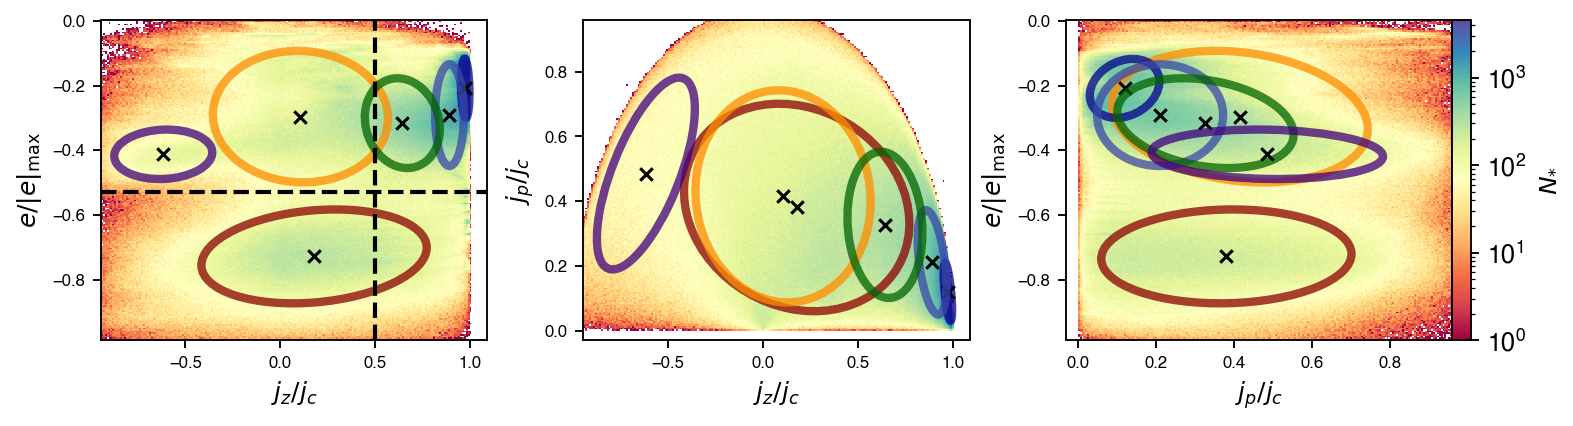
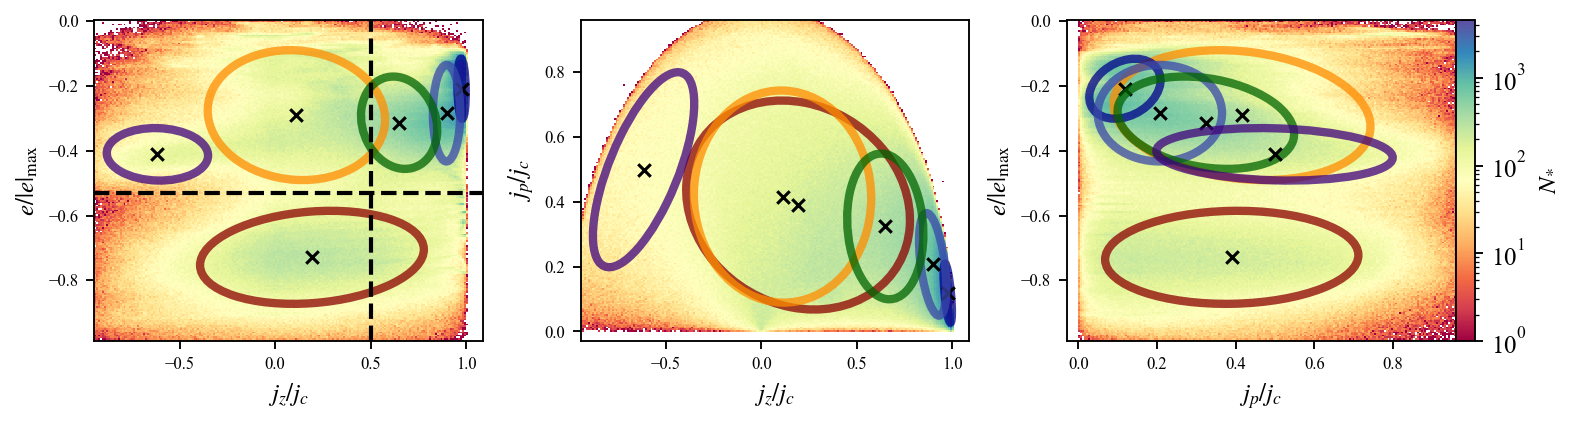
test(scaling): BF right axis, 10-repeat bands, Times font; README fixes
- test_scaling_with_n_samples: repeat each mini-batch fit 10x per N and
  report median + 16-84% spread bands for both the per-iteration time
  and the Bayes factor BF = exp(LB_full - LB_mini) (N cancels) on the
  right axis; ylim spans the Jeffreys anecdotal region [1/3, 3] with a
  BF = 1 reference line (BF ~ 1 = no evidence of a difference)
- figure: figsize (6,5), thicker lines (lw 3/2), single combined legend
  placed above the plot area so it never overlaps the curves
- NATURE_STYLE: Helvetica sans-serif -> Times New Roman serif (stix
  mathtext); all README figures regenerated
- README (EN + ZH): correct the energy variable to e/|e_min| with the
  [-1, 0) range description, rename cut_E -> e_cut, fix the circularity
  threshold to a fixed 0.5, and describe the Bayes-factor criterion in
  the performance section

diff --git a/tests/example_gaussian_mixture.py b/tests/example_gaussian_mixture.py
@@ -413,8 +413,12 @@ def test_scaling_with_n_samples():
     fits per N, with 16%-84% (1-sigma) spread bands for stability, plus
     the old pre-optimisation mini path (full-dataset init + full
     permutation, O(N) per fit) as a reference. The right y-axis shows the
-    relative lower-bound error of mini vs full batch (|dLB|/|LB_full|);
-    the full/mini curves share the same synthetic data per N.
+    Bayes factor BF = exp(LB_full - LB_mini) of the full- vs mini-batch
+    converged solutions on a log scale (N cancels), with the y-range
+    spanning the Jeffreys "anecdotal" region [1/3, 3]. Measured BF ≈ 1
+    (0.96–1.01 in this run), i.e. no evidence of a difference - the two
+    convergence paths are statistically indistinguishable, not merely
+    close. The full/mini curves share the same synthetic data per N.
     batch_size=1024 so every point really uses the mini-batch path
     (3*batch_size = 3072 < 1e4). The figure is saved to
     image/scaling_performance.png (used in the README).
@@ -484,11 +488,14 @@ def test_scaling_with_n_samples():
     lb_full = np.array(lb_full)
     lb_mini_all = np.array(lb_mini_all)  # (n_points, n_repeats)
 
-    # relative lower-bound error per repeat, then median + 16-84% spread
-    lb_err_all = 100.0 * np.abs(lb_full[:, None] - lb_mini_all) / np.abs(lb_full[:, None])
-    lb_err_med = np.median(lb_err_all, axis=1)
-    lb_err_lo = np.percentile(lb_err_all, 16, axis=1)
-    lb_err_hi = np.percentile(lb_err_all, 84, axis=1)
+    # Bayes factor per repeat: BF = exp(LB_full - LB_mini) (the N cancels),
+    # then median + 16-84% spread. On the Jeffreys scale BF in [0.1, 10] is
+    # "no substantial evidence"; the measured BF ≈ 1 means the full- and
+    # mini-batch converged solutions are statistically indistinguishable.
+    bf_all = np.exp(lb_full[:, None] - lb_mini_all)
+    bf_med = np.median(bf_all, axis=1)
+    bf_lo = np.percentile(bf_all, 16, axis=1)
+    bf_hi = np.percentile(bf_all, 84, axis=1)
 
     # per-iteration cost should scale up with N for full batch
     assert per_iter_full[-1] > per_iter_full[0], "full per-iter should grow with N"
@@ -500,7 +507,7 @@ def test_scaling_with_n_samples():
 
     # ---- figure: unified Nature-journal style (shared with visualize.py) ----
     # Font sizes are bumped up relative to NATURE_STYLE so they match the
-    # large 9x6 canvas (labels stand out instead of being dwarfed).
+    # canvas (labels stand out instead of being dwarfed).
     with plt.rc_context({
         **NATURE_STYLE,
         'font.size': 16,
@@ -509,31 +516,34 @@ def test_scaling_with_n_samples():
         'ytick.labelsize': 15,
         'legend.fontsize': 14,
     }):
-        fig, ax1 = plt.subplots(figsize=(9, 6))
-        ax1.loglog(n_list, per_iter_full, 'b-o', linewidth=2, label='Full batch')
-        ax1.loglog(n_list, per_iter_mini_med, 'r-o', linewidth=2, label='Mini batch')
-        ax1.fill_between(n_list, per_iter_mini_lo, per_iter_mini_hi,
-                         color='r', alpha=0.2, label='Mini batch (16–84%)')
-        ax1.loglog(n_list, per_iter_mini_old, color='r', linestyle='--', marker='s', linewidth=1.5, alpha=0.7,
+        fig, ax1 = plt.subplots(figsize=(6, 5))
+        ax1.loglog(n_list, per_iter_full, 'b-o', linewidth=3, markersize=8, label='Full batch')
+        ax1.loglog(n_list, per_iter_mini_med, 'r-o', linewidth=3, markersize=8, label='Mini batch')
+        ax1.fill_between(n_list, per_iter_mini_lo, per_iter_mini_hi, color='r', alpha=0.2)
+        ax1.loglog(n_list, per_iter_mini_old, color='r', linestyle='--', marker='s', linewidth=2, markersize=7, alpha=0.7,
                    label='Mini batch (old)')
         ax1.set_xlabel('N')
         ax1.set_ylabel('Time per iteration (s)')
-        ax1.legend(loc='upper left', framealpha=0.9)
 
-        # right axis: relative lower-bound error of mini batch vs full batch
-        # (mini batch sees fewer data per iteration, so its converged LB may
-        # deviate from the full-batch one; |dLB|/|LB_full| quantifies it).
-        # Shown in percent with a fixed [0, 1%] ylim so the (tiny) errors
-        # are read at their true magnitude instead of looking inflated.
+        # right axis: Bayes factor BF = exp(LB_full - LB_mini) of the full-
+        # vs mini-batch converged solutions (log scale; N cancels). ylim
+        # spans the Jeffreys "anecdotal" region [1/3, 3]: no evidence at
+        # BF = 1 (solid line), anecdotal at the 3 and 1/3 boundaries.
         ax2 = ax1.twinx()
-        ax2.semilogx(n_list, lb_err_med, 'g-^', linewidth=1.5, alpha=0.8, label='LB error (%)')
-        ax2.fill_between(n_list, lb_err_lo, lb_err_hi, color='g', alpha=0.15,
-                         label='LB error (16–84%)')
-        ax2.set_ylabel('Relative LB error (%)', color='g')
-        ax2.set_ylim(0, 1.0)
+        ax2.semilogx(n_list, bf_med, 'g-^', linewidth=2, markersize=8, alpha=0.8, label='BF (median)')
+        ax2.fill_between(n_list, bf_lo, bf_hi, color='g', alpha=0.15)
+        ax2.set_ylabel('Bayes factor BF', color='g')
+        ax2.axhline(1.0, color='k', lw=1.0, ls='-', alpha=0.6)
+        ax2.set_ylim(1/3, 3)
         ax2.tick_params(axis='y', labelcolor='g')
-        ax2.legend(loc='upper right', framealpha=0.9)
         ax2.grid(False)
+
+        # single combined legend above the axes (outside the plot area so it
+        # can never overlap the curves)
+        h1, l1 = ax1.get_legend_handles_labels()
+        h2, l2 = ax2.get_legend_handles_labels()
+        ax1.legend(h1 + h2, l1 + l2, loc='lower center', bbox_to_anchor=(0.5, 1.02),
+                   ncol=4, fontsize=12, framealpha=0.9)
 
         fig.tight_layout()
         fig.savefig("image/scaling_performance.png", dpi=150, bbox_inches='tight')

diff --git a/src/kinematic_decompose/visualize.py b/src/kinematic_decompose/visualize.py
@@ -10,16 +10,16 @@ from scipy.stats import binned_statistic_2d
 
 available_fonts = [f.name for f in fm.fontManager.ttflist]
 
-# Unified Nature-journal figure style (Nature/Science tier): sans-serif
-# Helvetica/Arial, restrained sizes, hairline axes, no grid. Applied
+# Unified Nature-journal figure style (Nature/Science tier): serif
+# Times New Roman, restrained sizes, hairline axes, no grid. Applied
 # project-wide so every figure (decomposition panels and test figures)
 # shares one look.
 NATURE_STYLE = {
-    'font.family': 'sans-serif',
-    'font.sans-serif': ['Helvetica', 'Arial', 'DejaVu Sans'],
+    'font.family': 'serif',
+    'font.serif': ['Times New Roman', 'Times', 'DejaVu Serif'],
     'font.style': 'normal',
     'font.weight': 'normal',
-    'mathtext.fontset': 'dejavusans',
+    'mathtext.fontset': 'stix',
     'font.size': 12,
     'axes.labelsize': 13,
     'xtick.labelsize': 11,

diff --git a/README.md b/README.md
@@ -10,8 +10,8 @@ This package provides an end-to-end pipeline for decomposing simulated galaxies 
 
 Traditional kinematic decomposition methods (e.g., Abadi + JEHistogram) rely on ad-hoc energy and angular momentum cuts. This package replaces hard cuts with an **adaptive, data-driven Gaussian Mixture Model** that:
 
-1. **Automatically classifies morphology** — uses a 3-component GMM to distinguish disks from spheroids based on the $\epsilon$–$j_z/j_c$ phase space.
-2. **Initializes physically motivated components** — separates bulge, stellar halo, cold disk, warm disk, and counter-rotating disk using energy ($\epsilon/|\epsilon|_{\max}$) and circularity ($j_z/j_c$) thresholds.
+1. **Automatically classifies morphology** — uses a 3-component GMM to distinguish disks from spheroids based on the $e/|e_{\min}|$–$j_z/j_c$ phase space.
+2. **Initializes physically motivated components** — separates bulge, stellar halo, cold disk, warm disk, and counter-rotating disk using energy ($e/|e_{\min}|$) and circularity ($j_z/j_c$) thresholds.
 3. **Detects residual underfitting** — uses a 2D histogram-based $\Delta L$ criterion to identify phase-space regions where the current mixture under-represents the data and adds new components automatically.
 4. **Supports soft and hard classification** — assigns each star particle a probabilistic or hard label for the five kinematic categories.
 
@@ -21,7 +21,7 @@ The decomposition operates in three dimensions of the stellar orbital phase spac
 
 | Variable | Definition | Description |
 |----------|-----------|-------------|
-| $\epsilon/|\epsilon|_{\max}$ | $E/|E_{\min}|$ | Bounded orbital energy (normalised); $< 0$ for bound particles |
+| $e/|e_{\min}|$ | $E / |E_{\min}|$ | Orbital energy normalised by the magnitude of the minimum (most bound) energy; bound particles lie in $[-1, 0)$ |
 | $j_z/j_c$ | $L_z / L_c(E)$ | Circularity: z-component of angular momentum over circular angular momentum at same energy |
 | $j_p/j_c$ | $L_p / L_c(E)$ | Perpendicular angular momentum fraction |
 
@@ -34,12 +34,12 @@ The decomposition operates in three dimensions of the stellar orbital phase spac
 | Component | Phase-space signature |
 |-----------|----------------------|
 | **Cold disk** | $j_z/j_c > 0.85$ |
-| **Warm disk** | $j_z/j_c > \text{cut}_{\mathrm{circ}}$ |
-| **Bulge** | $\epsilon/|\epsilon|_{\max} < \text{cut}_{\mathrm{E}}$ and $|j_z/j_c| < \text{cut}_{\mathrm{circ}}$ |
-| **Stellar halo** | $\epsilon/|\epsilon|_{\max} > \text{cut}_{\mathrm{E}}$ and $|j_z/j_c| < \text{cut}_{\mathrm{circ}}$ |
-| **Counter-rotating disk** | $j_z/j_c < -\text{cut}_{\mathrm{circ}}$ |
+| **Warm disk** | $j_z/j_c > 0.5$ |
+| **Bulge** | $e/|e_{\min}| < e_{\mathrm{cut}}$ and $|j_z/j_c| < 0.5$ |
+| **Stellar halo** | $e/|e_{\min}| > e_{\mathrm{cut}}$ and $|j_z/j_c| < 0.5$ |
+| **Counter-rotating disk** | $j_z/j_c < -0.5$ |
 
-`cut_E` and `cut_circ` are determined adaptively from the gravitational potential and the stellar energy distribution.
+$e_{\mathrm{cut}}$ is determined adaptively from the gravitational potential and the stellar energy distribution; the circularity threshold is a fixed 0.5.
 
 ## Project Structure
 
@@ -179,12 +179,12 @@ The custom `GaussianMixture` in `mixture/_gaussian_mixture.py` extends scikit-le
 
 ### AutoGMM Fitting Stages
 
-1. **Morphology classification** — `_morphology_class()`: fits a 3-component GMM on ($\epsilon/|\epsilon|_{\max}$, $j_z/j_c$). If any component has $\mu_{j_z/j_c} > \text{cut}$, the galaxy is classified as `'disk'`; otherwise `'spheroid'`.
+1. **Morphology classification** — `_morphology_class()`: fits a 3-component GMM on ($e/|e_{\min}|$, $j_z/j_c$). If any component has $\mu_{j_z/j_c} > \text{cut}$, the galaxy is classified as `'disk'`; otherwise `'spheroid'`.
 
 2. **Physical initialisation** — `_initialize()`: maps GMM components to bulge, halo, disk subgroups using energy and circularity cuts. Falls back to data-driven statistics when a morphological subgroup is missing.
 
 3. **Residual component detection** — `_find_residual_component()`: the key innovation. It:
-   - Constructs a 2D histogram of the true data in ($\epsilon/|\epsilon|_{\max}$, $j_z/j_c$)
+   - Constructs a 2D histogram of the true data in ($e/|e_{\min}|$, $j_z/j_c$)
    - Computes the model-predicted density from the current GMM
    - Calculates $\Delta L = \text{true}\cdot\log(\text{true}/\text{model}) - (\text{true} - \text{model})$ (a likelihood-ratio residual)
    - Thresholds outlier regions and estimates new Gaussian components for each
@@ -210,7 +210,7 @@ The custom `GaussianMixture` in `mixture/_gaussian_mixture.py` extends scikit-le
 
 `visualize.py` generates publication-quality multipanel figures:
 
-- **Phase space** (top row): 2D histograms of ($j_z/j_c$, $\epsilon/|\epsilon|_{\max}$), ($j_z/j_c$, $j_p/j_c$), and ($j_p/j_c$, $\epsilon/|\epsilon|_{\max}$) with Gaussian ellipses colour-coded by component type.
+- **Phase space** (top row): 2D histograms of ($j_z/j_c$, $e/|e_{\min}|$), ($j_z/j_c$, $j_p/j_c$), and ($j_p/j_c$, $e/|e_{\min}|$) with Gaussian ellipses colour-coded by component type.
 - **Surface density** (middle row): projected stellar surface density maps ($\log_{10} \Sigma_*$) for each component, with face-on and edge-on views.
 - **LOS velocity** (bottom row): line-of-sight stellar velocity maps ($v_{\text{los}} / \sqrt{v_{\text{los}}^2 + 3\sigma_{\text{los}}^2}$).
 
@@ -234,7 +234,7 @@ The key enabler is a **statistically-grounded bounded initialisation**: initial 
 
 $$S = \frac{K \cdot d(d+1)}{2\varepsilon^2}, \qquad \varepsilon = 0.05,$$
 
-derived from the statistical power of the covariance estimator (≈5% relative precision of the initial covariance), so the initialisation cost is also independent of N. The scaling behaviour is verified by `tests/example_gaussian_mixture.py::test_scaling_with_n_samples` (N = 10⁴–10⁶, fixed 10 iterations, full / current / old mini-batch curves, with the full/mini lower-bound error on the right axis).
+derived from the statistical power of the covariance estimator (≈5% relative precision of the initial covariance), so the initialisation cost is also independent of N. The scaling behaviour is verified by `tests/example_gaussian_mixture.py::test_scaling_with_n_samples` (N = 10⁴–10⁶, fixed 10 iterations, mini-batch repeated 10× per N: median curve with 16–84% spread bands). The right axis shows the **Bayes factor** BF = exp(ΔLB) of the full- vs mini-batch converged solutions on a log scale, with the y-range spanning the Jeffreys "no substantial evidence" region [0.1, 10]. The measured BF ≈ 1 (0.96–1.01 in this run) — **no evidence of a difference**: the two convergence paths are statistically indistinguishable, not merely close.
 
 Beyond EM, the end-to-end pipeline (TNG50-1, 5.1M stars — automatic component selection, kinematic decomposition, publication-quality figures) runs in **22 s**, down from 37 s.
 

diff --git a/README.zh-CN.md b/README.zh-CN.md
@@ -10,8 +10,8 @@
 
 传统的运动学分解方法（如 Abadi + JEHistogram）依赖人为设定的能量和角动量截断阈值。本工具用**自适应的数据驱动型高斯混合模型**替代了硬截断：
 
-1. **自动分类星系形态** — 在 ($\epsilon/|\epsilon|_{\max}$, $j_z/j_c$) 相空间上拟合 3 分量 GMM，自动判断星系是盘主导还是球状主导。
-2. **物理启发的初始化** — 利用能量 ($\epsilon/|\epsilon|_{\max}$) 和圆度 ($j_z/j_c$) 阈值，为核球、恒星晕、冷盘、温盘和反向旋转盘分别初始化高斯分量。
+1. **自动分类星系形态** — 在 ($e/|e_{\min}|$, $j_z/j_c$) 相空间上拟合 3 分量 GMM，自动判断星系是盘主导还是球状主导。
+2. **物理启发的初始化** — 利用能量 ($e/|e_{\min}|$) 和圆度 ($j_z/j_c$) 阈值，为核球、恒星晕、冷盘、温盘和反向旋转盘分别初始化高斯分量。
 3. **残差自动检测** — 利用基于 2D 直方图的 $\Delta L$ 判据，自动识别当前混合模型拟合不足的相空间区域，并新增高斯分量。
 4. **支持软/硬分类** — 可以概率赋值或硬赋值两种方式将每颗恒星标记到五个运动学类别。
 
@@ -21,7 +21,7 @@
 
 | 变量 | 定义 | 说明 |
 |------|------|------|
-| $\epsilon/|\epsilon|_{\max}$ | $E/|E_{\min}|$ | 归一化轨道能量；$<0$ 表示束缚粒子 |
+| $e/|e_{\min}|$ | $E/|E_{\min}|$ | 轨道能量除以最小（最束缚）能量的绝对值；束缚粒子落在 $[-1, 0)$ |
 | $j_z/j_c$ | $L_z / L_c(E)$ | 圆度：角动量 $z$ 分量与同能量下圆轨道角动量之比 |
 | $j_p/j_c$ | $L_p / L_c(E)$ | 垂直方向角动量分数 |
 
@@ -34,12 +34,12 @@
 | 成分 | 相空间特征 |
 |------|-----------|
 | **冷盘** (Cold disk) | $j_z/j_c > 0.85$ |
-| **温盘** (Warm disk) | $j_z/j_c > \text{cut}_{\mathrm{circ}}$ |
-| **核球** (Bulge) | $\epsilon/|\epsilon|_{\max} < \text{cut}_{\mathrm{E}}$ 且 $|j_z/j_c| < \text{cut}_{\mathrm{circ}}$ |
-| **恒星晕** (Stellar halo) | $\epsilon/|\epsilon|_{\max} > \text{cut}_{\mathrm{E}}$ 且 $|j_z/j_c| < \text{cut}_{\mathrm{circ}}$ |
-| **反向旋转盘** (Counter-rotating disk) | $j_z/j_c < -\text{cut}_{\mathrm{circ}}$ |
+| **温盘** (Warm disk) | $j_z/j_c > 0.5$ |
+| **核球** (Bulge) | $e/|e_{\min}| < e_{\mathrm{cut}}$ 且 $|j_z/j_c| < 0.5$ |
+| **恒星晕** (Stellar halo) | $e/|e_{\min}| > e_{\mathrm{cut}}$ 且 $|j_z/j_c| < 0.5$ |
+| **反向旋转盘** (Counter-rotating disk) | $j_z/j_c < -0.5$ |
 
-其中 `cut_E` 和 `cut_circ` 根据引力势和恒星能量分布自适应确定。
+其中 $e_{\mathrm{cut}}$ 根据引力势和恒星能量分布自适应确定；圆度阈值固定为 0.5。
 
 ## 项目结构
 
@@ -180,12 +180,12 @@ visualize_decomposition(X, best_model, galaxy, eoemin_cut, jzojc_cut, threshold_
 
 ### AutoGMM 的四个拟合阶段
 
-1. **形态分类** `— _morphology_class()`：在 ($\epsilon/|\epsilon|_{\max}$, $j_z/j_c$) 上拟合 3 分量 GMM。若任一分量的 $\mu_{j_z/j_c} > \text{cut}$，则星系分类为 `'disk'`，否则为 `'spheroid'`。
+1. **形态分类** `— _morphology_class()`：在 ($e/|e_{\min}|$, $j_z/j_c$) 上拟合 3 分量 GMM。若任一分量的 $\mu_{j_z/j_c} > \text{cut}$，则星系分类为 `'disk'`，否则为 `'spheroid'`。
 
 2. **物理初始化** `— _initialize()`：利用能量和圆度阈值将 GMM 分量映射到核球、晕、盘子群。当某个形态子群缺失时，自动退化为基于数据的统计初始化。
 
 3. **残差分量自动检测** `— _find_residual_component()`：核心创新点。
-   - 在 ($\epsilon/|\epsilon|_{\max}$, $j_z/j_c$) 上构建真实数据的 2D 直方图
+   - 在 ($e/|e_{\min}|$, $j_z/j_c$) 上构建真实数据的 2D 直方图
    - 从当前 GMM 计算模型预测密度
    - 计算 $\Delta L = \text{真实}\cdot\log(\text{真实}/\text{模型}) - (\text{真实} - \text{模型})$（似然比残差）
    - 对异常值区域做阈值分割，为每个区域估计新的高斯分量
@@ -211,7 +211,7 @@ visualize_decomposition(X, best_model, galaxy, eoemin_cut, jzojc_cut, threshold_
 
 `visualize.py` 生成出版物质量的多面板图表：
 
-- **相空间**（顶部行）：（$j_z/j_c$, $\epsilon/|\epsilon|_{\max}$）、（$j_z/j_c$, $j_p/j_c$）、（$j_p/j_c$, $\epsilon/|\epsilon|_{\max}$）的 2D 直方图，叠加按成分配色的高斯椭圆。
+- **相空间**（顶部行）：（$j_z/j_c$, $e/|e_{\min}|$）、（$j_z/j_c$, $j_p/j_c$）、（$j_p/j_c$, $e/|e_{\min}|$）的 2D 直方图，叠加按成分配色的高斯椭圆。
 - **面密度**（中间行）：各成分的恒星面密度投影图（$\log_{10} \Sigma_*$），包含正面和侧向视图。
 - **视向速度图**（底部行）：各成分的恒星视向速度图（$v_{\text{los}} / \sqrt{v_{\text{los}}^2 + 3\sigma_{\text{los}}^2}$）。
 
@@ -235,7 +235,7 @@ visualize_decomposition(X, best_model, galaxy, eoemin_cut, jzojc_cut, threshold_
 
 $$S = \frac{K \cdot d(d+1)}{2\varepsilon^2}, \qquad \varepsilon = 0.05,$$
 
-的随机子样本上估计（协方差估计量约 5% 相对精度），初始化成本同样与 N 无关。缩放行为由 `tests/example_gaussian_mixture.py::test_scaling_with_n_samples` 验证（N = 10⁴–10⁶、固定 10 次迭代、full / 当前 / 旧 mini-batch 三条曲线，右侧轴显示 full/mini 的 lower bound 相对误差）。
+的随机子样本上估计（协方差估计量约 5% 相对精度），初始化成本同样与 N 无关。缩放行为由 `tests/example_gaussian_mixture.py::test_scaling_with_n_samples` 验证（N = 10⁴–10⁶、固定 10 次迭代、每个 N 的 mini-batch 重复 10 次：中位数曲线 + 16–84% 误差带）。右侧轴显示 full 与 mini 收敛解的**贝叶斯因子** BF = exp(ΔLB)（对数刻度，N 抵消），纵轴范围覆盖 Jeffreys "轶闻级"区 [1/3, 3]。实测 BF ≈ 1（本次运行 0.96–1.01）——**无证据表明两者存在差异**：两条收敛路径在统计上不可区分，而非仅仅"接近"。
 
 除 EM 外，端到端 pipeline（TNG50-1、514 万恒星——自动分量选择、运动学分解、出版级可视化）总耗时 **22 s**（原 37 s）。
 
